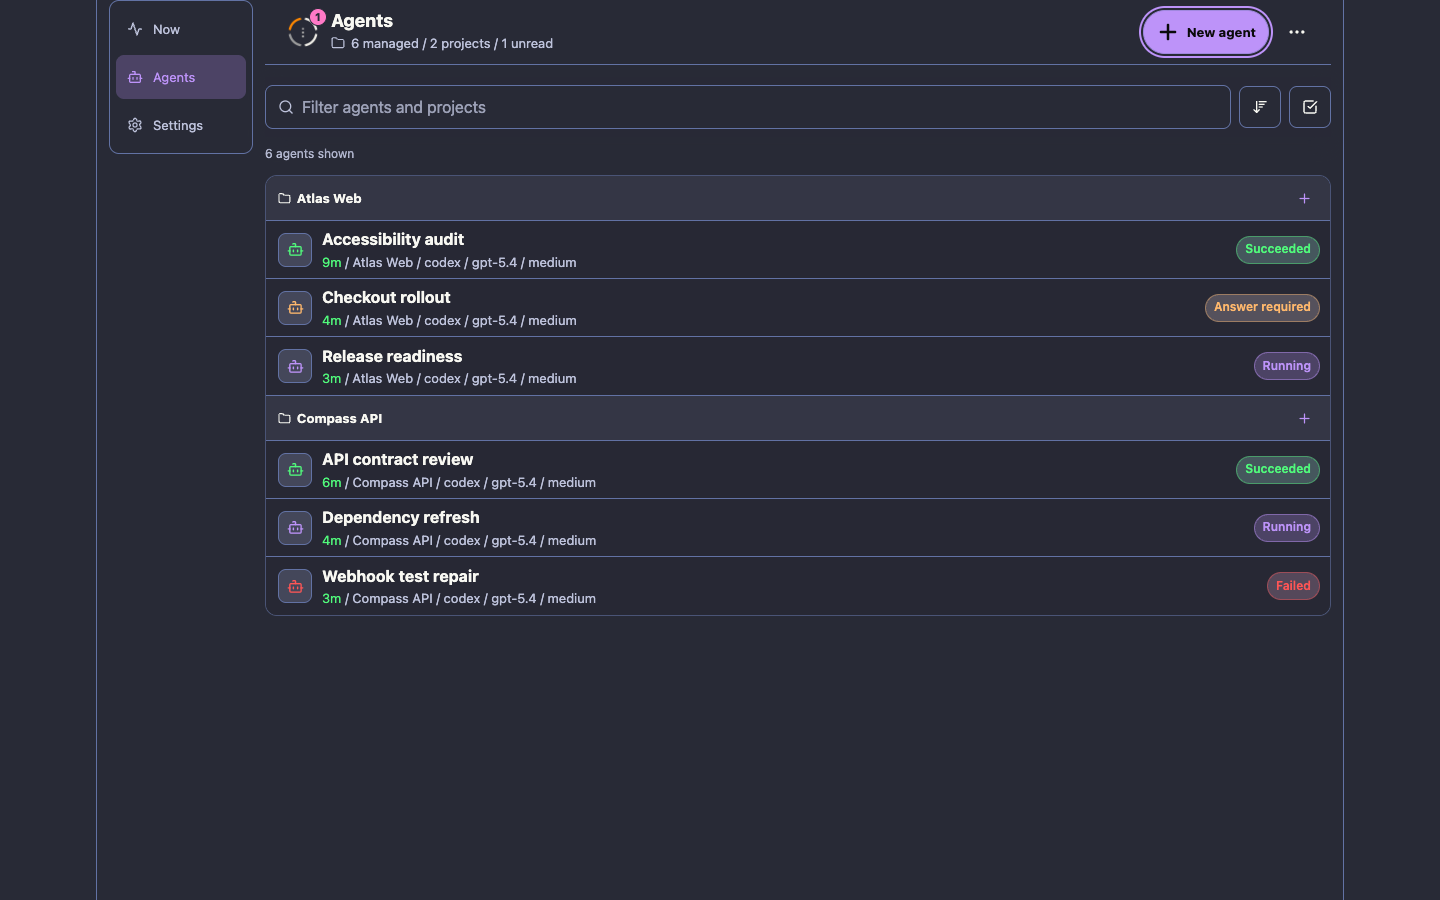
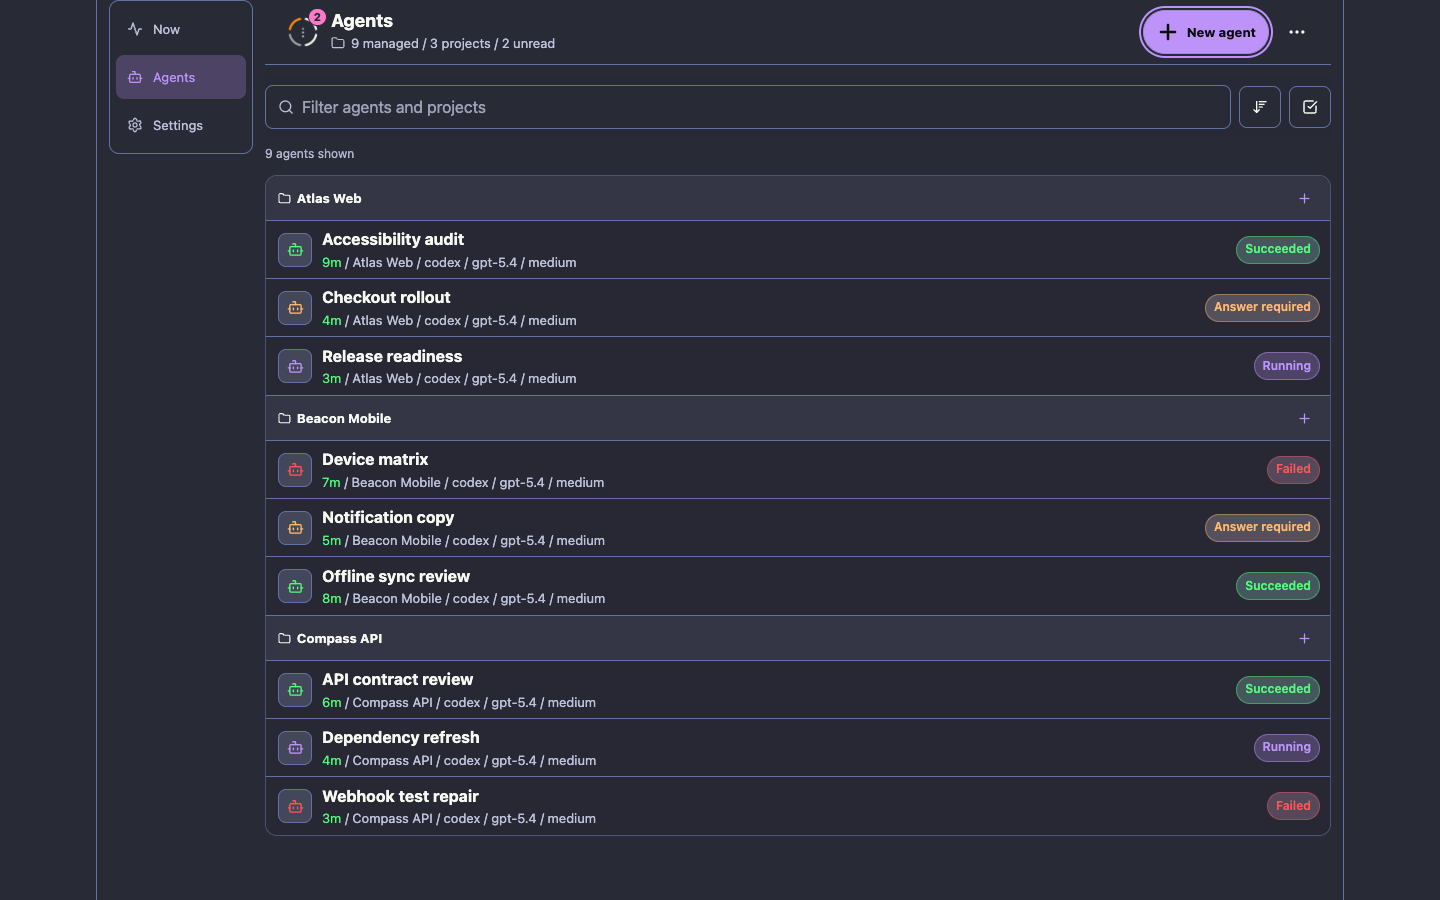
Publish approved screenshot updates

diff --git a/src/styles/site.css b/src/styles/site.css
@@ -211,14 +211,14 @@ h1 {
 	top: 0;
 	left: 0;
 	width: 78%;
-	aspect-ratio: 1.62;
+	aspect-ratio: 8 / 5;
 }
 
 .screen-web {
 	right: 0;
 	bottom: 18px;
 	width: 70%;
-	aspect-ratio: 1.22;
+	aspect-ratio: 4 / 3;
 }
 
 .workflow {

diff --git a/docs/decisions/adr-006-quickstart-carousel.md b/docs/decisions/adr-006-quickstart-carousel.md
@@ -29,11 +29,11 @@ Use Tycho's existing orange accent, dark panel, type, border, and shadow tokens 
 
 ## Assets
 
-The Answer and Resume captures from ADR-005 remain valid. The Launch capture uses an authentic populated Tycho quick-agent modal over the registered-project ledger. The Watch capture uses an authentic, complete six-row agent list across Succeeded, Answer required, Running, and Failed states. Both approved canonical PNGs come from the Tycho product repository's `docs/assets/site-quickstart/` directory and retain their release-versioned names in this site's `public/assets/` directory.
+The Answer and Resume captures from ADR-005 remain valid. The Launch capture uses an authentic populated Tycho quick-agent modal over the registered-project ledger. The Watch capture uses an authentic, complete nine-row agent list across three projects and Succeeded, Answer required, Running, and Failed states. Both approved canonical PNGs come from the Tycho product repository's `docs/assets/site-quickstart/` directory and retain their release-versioned names in this site's `public/assets/` directory.
 
 Canonical replacement checksums:
 
[3 lines of base64/hex data omitted]
 
 Do not merge or deploy until both replacement assets have been delivered, reviewed at their original size, copied into this repository, and included in the full responsive and accessibility QA pass.

diff --git a/docs/decisions/adr-004-release-version-and-screenshots.md b/docs/decisions/adr-004-release-version-and-screenshots.md
@@ -26,6 +26,14 @@ Tycho v0.9.0 also introduced persistent multiserver Agents and Projects in Remot
 - Keep the homepage screenshot story focused on supervision and follow-up.
 - Put paired multiserver Agents and Projects screenshots on the Concept page.
 
+For the v0.10.0 homepage, the Terminal UI capture is the canonical
+`docs/assets/site-homepage/tui-conversation-v0.10.0.png` asset from the Tycho
+product repository. Store it as `public/assets/tui-conversation-v0.10.0.png` at
+1440×900 with SHA-256
[1 lines of base64/hex data omitted]
+It shows the current conversation surface through a completed run and a focused
+follow-up composer.
+
 ## Consequences
 
 The homepage version, release notes, and screenshots move together through an intentional documentation update. Site builds remain deterministic and do not depend on GitHub availability.

diff --git a/docs/decisions/adr-005-quickstart-step-screenshots.md b/docs/decisions/adr-005-quickstart-step-screenshots.md
@@ -11,7 +11,6 @@ The homepage quickstart currently pairs four numbered actions with one Remote UI
 The checked-in assets cannot form a coherent replacement set:
 
 - `remote-new-agent.png` shows the Welcome Sandbox instead of the registered-project path named in the homepage step, uses a 1280x900 frame, and is not release-versioned.
-- `tui-agents-v0.10.0.png` shows idle agents rather than a running session, live activity, or an attention state.
 - `web-delegation-v0.10.0.png` shows delegation and a generic composer, not a first-session question or follow-up, and uses a 4:3 frame.
 - `web-summary-v0.10.0.png` shows run-summary navigation and an attachment, but no resume or send action. Its visible "Run #2" and "Total Runs 0" state is not suitable for a first-session sequence.
 - `web-workspace-v0.10.0.png` supports workspace browsing, not the quickstart loop.
